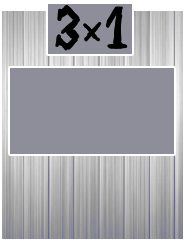
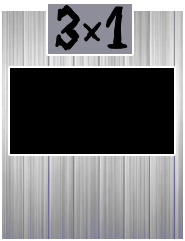
implement anticipation

diff --git a/src/main.cpp b/src/main.cpp
@@ -87,6 +87,10 @@ struct SlotBuffer {
         return buffer;
     }
 
+    int& at(int reel, int row) {
+        return buffer[reel][row];
+    }
+
     void advance(int reel, int new_tile) {
         for (i32 row = rows - 1; row >= 1; row--)
             buffer[reel][row] = buffer[reel][row-1];
@@ -95,10 +99,11 @@ struct SlotBuffer {
 };
 
 struct Slot {
+    Machine*          machine          = nullptr;
     Rectangle         rect             = {};
     bool              spinning         = false;
     float             spin_time        = 0;
-    float             reel_offset_time = 0.1;
+    float             reel_offset_time = 0.3;
     int               spin_distance    = 10;
     Money             stake            = 1;
     SlotBuffer        buffer           = {};
@@ -107,18 +112,23 @@ struct Slot {
     Weights<int>      weights          = {};
     float             speed            = 300;
     float             row_height       = 40;
+    int               current_spin_distance = 0;
+
     void (*win_algo)(Slot* slot) = 0;
+    void (*stop_callback)(Slot* slot, int reel) = 0;
 
     float offsets[MAX_SLOT_REELS]       = {};
     i32   upper_buffer[MAX_SLOT_REELS]  = {};
     i32   spin_iter[MAX_SLOT_REELS]     = {};
 
+    Rectangle get_reel_rect(int reel);
     void spin(Vector2 pos);
     void update();
 };
 
 struct M3X1 : Machine {
     Slot slot = {};
+    bool anticipation = false;
 
     M3X1();
     virtual void update();
@@ -172,10 +182,23 @@ void Slot::spin(Vector2 pos) {
             spin_iter[reel] = 0;
         }
 
+        current_spin_distance = spin_distance;
         spinning = true;
         spin_time = 0;
         gain_money(-stake, pos);
     }
+}
+
+Rectangle Slot::get_reel_rect(int reel) {
+    float avail_space_x = rect.width - reels * 40;
+    float gap_x = avail_space_x / (reels + 1);
+
+    return Rectangle {
+        .x = this->rect.x + gap_x * (reel + 1) + reel * 40,
+        .y = this->rect.y,
+        .width = 40,
+        .height = this->rect.height,
+    };
 }
 
 void Slot::update() {
@@ -185,7 +208,7 @@ void Slot::update() {
         bool done = true;
         for (i32 reel = 0; reel < reels; reel++) {
             if (spin_time < reel_offset_time * reel) continue;
-            if (spin_iter[reel] == spin_distance)
+            if (spin_iter[reel] >= current_spin_distance)
                 continue;
 
             done = false;
@@ -195,7 +218,12 @@ void Slot::update() {
                 buffer.advance(reel, upper_buffer[reel]);
                 upper_buffer[reel] = weights.generate();
                 offsets[reel] -= row_height;
+
                 spin_iter[reel]++;
+                if (spin_iter[reel] == current_spin_distance && this->stop_callback) {
+                    spin_iter[reel] = 99999999; // set to high value in case current_spin_distance changes
+                    this->stop_callback(this, reel); 
+                }
             }
         }
         if (done) {
@@ -203,8 +231,6 @@ void Slot::update() {
             win_algo(this);
         }
     }
-
-    DrawRectangleRec(rect, BLACK);
 
     float avail_space_x = rect.width - reels * 40;
     float avail_space_y = rect.height - rows * 40;
@@ -233,17 +259,31 @@ void Slot::update() {
 }
 
 M3X1::M3X1() {
-    slot.stake = 10;
-    slot.reels = 3;
-    slot.rows = 1;
+    slot.machine = this;
+    slot.stake   = 10;
+    slot.reels   = 3;
+    slot.rows    = 1;
+
     slot.weights.add(1, 5);
     slot.weights.add(2, 3);
     slot.weights.add(3, 2);
-    slot.buffer = SlotBuffer::generate(slot.reels, slot.rows, slot.weights);
+    slot.buffer  = SlotBuffer::generate(slot.reels, slot.rows, slot.weights);
 
     slot.win_algo = [](Slot* slot) {
-        if (slot->buffer.buffer[0][0] == slot->buffer.buffer[1][0] && slot->buffer.buffer[0][0] == slot->buffer.buffer[2][0]) {
+        if (slot->buffer.at(0,0) == slot->buffer.at(1,0) && slot->buffer.at(1,0) == slot->buffer.at(2,0)) {
             gain_money(100, { slot->rect.x, slot->rect.y });
+        }
+    };
+    slot.stop_callback = [](Slot* slot, int reel) {
+        M3X1* m3x1 = (M3X1*)slot->machine;
+
+        if (reel == 1 && slot->buffer.at(0,0) == slot->buffer.at(1,0)) {
+            slot->current_spin_distance += 10;
+            m3x1->anticipation = true;
+        }
+
+        if (reel == slot->reels - 1) {
+            m3x1->anticipation = false;
         }
     };
 }
@@ -267,6 +307,8 @@ void M3X1::update() {
         button.y += 12;
         button.height -= 12;
         color = { 0, 0, 160, 180 };
+
+        // DrawRectangleRec(rect, BLACK);
     }
     else {
         if (CheckCollisionPointRec(mouse, button)) {
@@ -282,6 +324,12 @@ void M3X1::update() {
 
     DrawRectangleRec(button, color);
     DrawText("SPIN", button.x + 6, button.y + 10, 20, WHITE);
+
+    if (anticipation) {
+        double t = game_time * 10;
+        Color color = (t - floor(t) < 0.5) ? Color{54, 16, 112,255} : Color{117, 21, 143,255};
+        DrawRectangleRec(slot.get_reel_rect(2), color);
+    }
     slot.update();
 }
 
